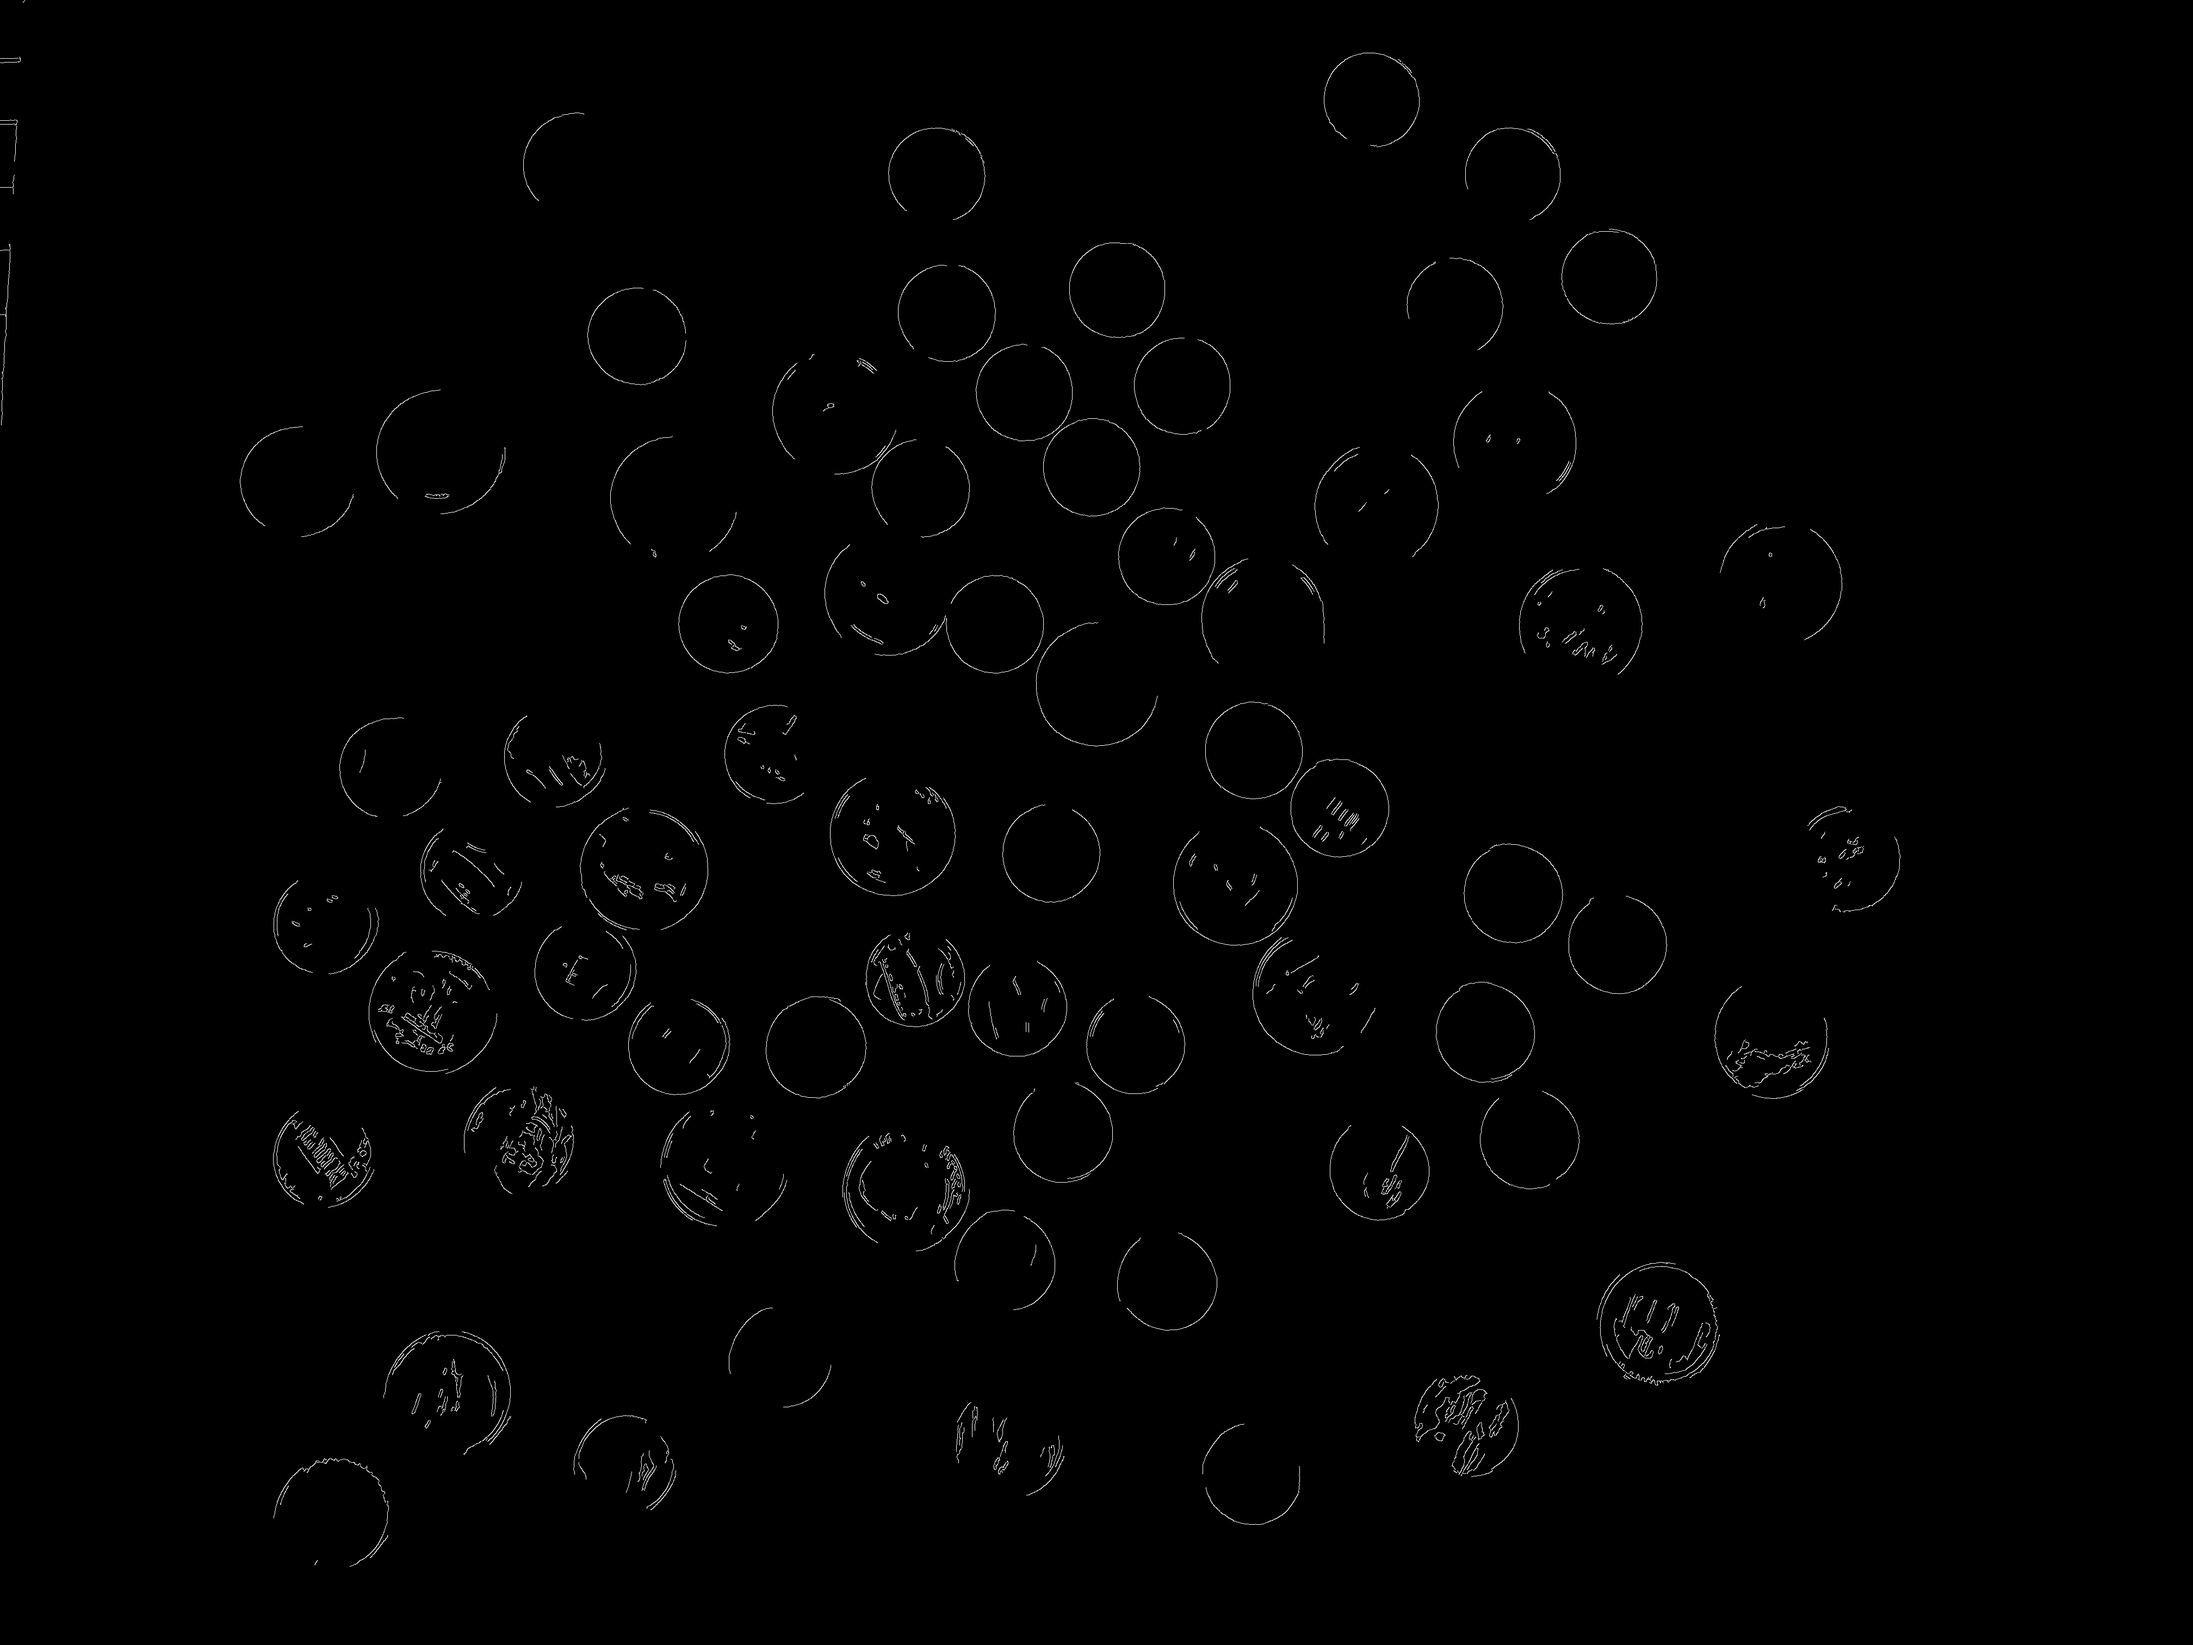
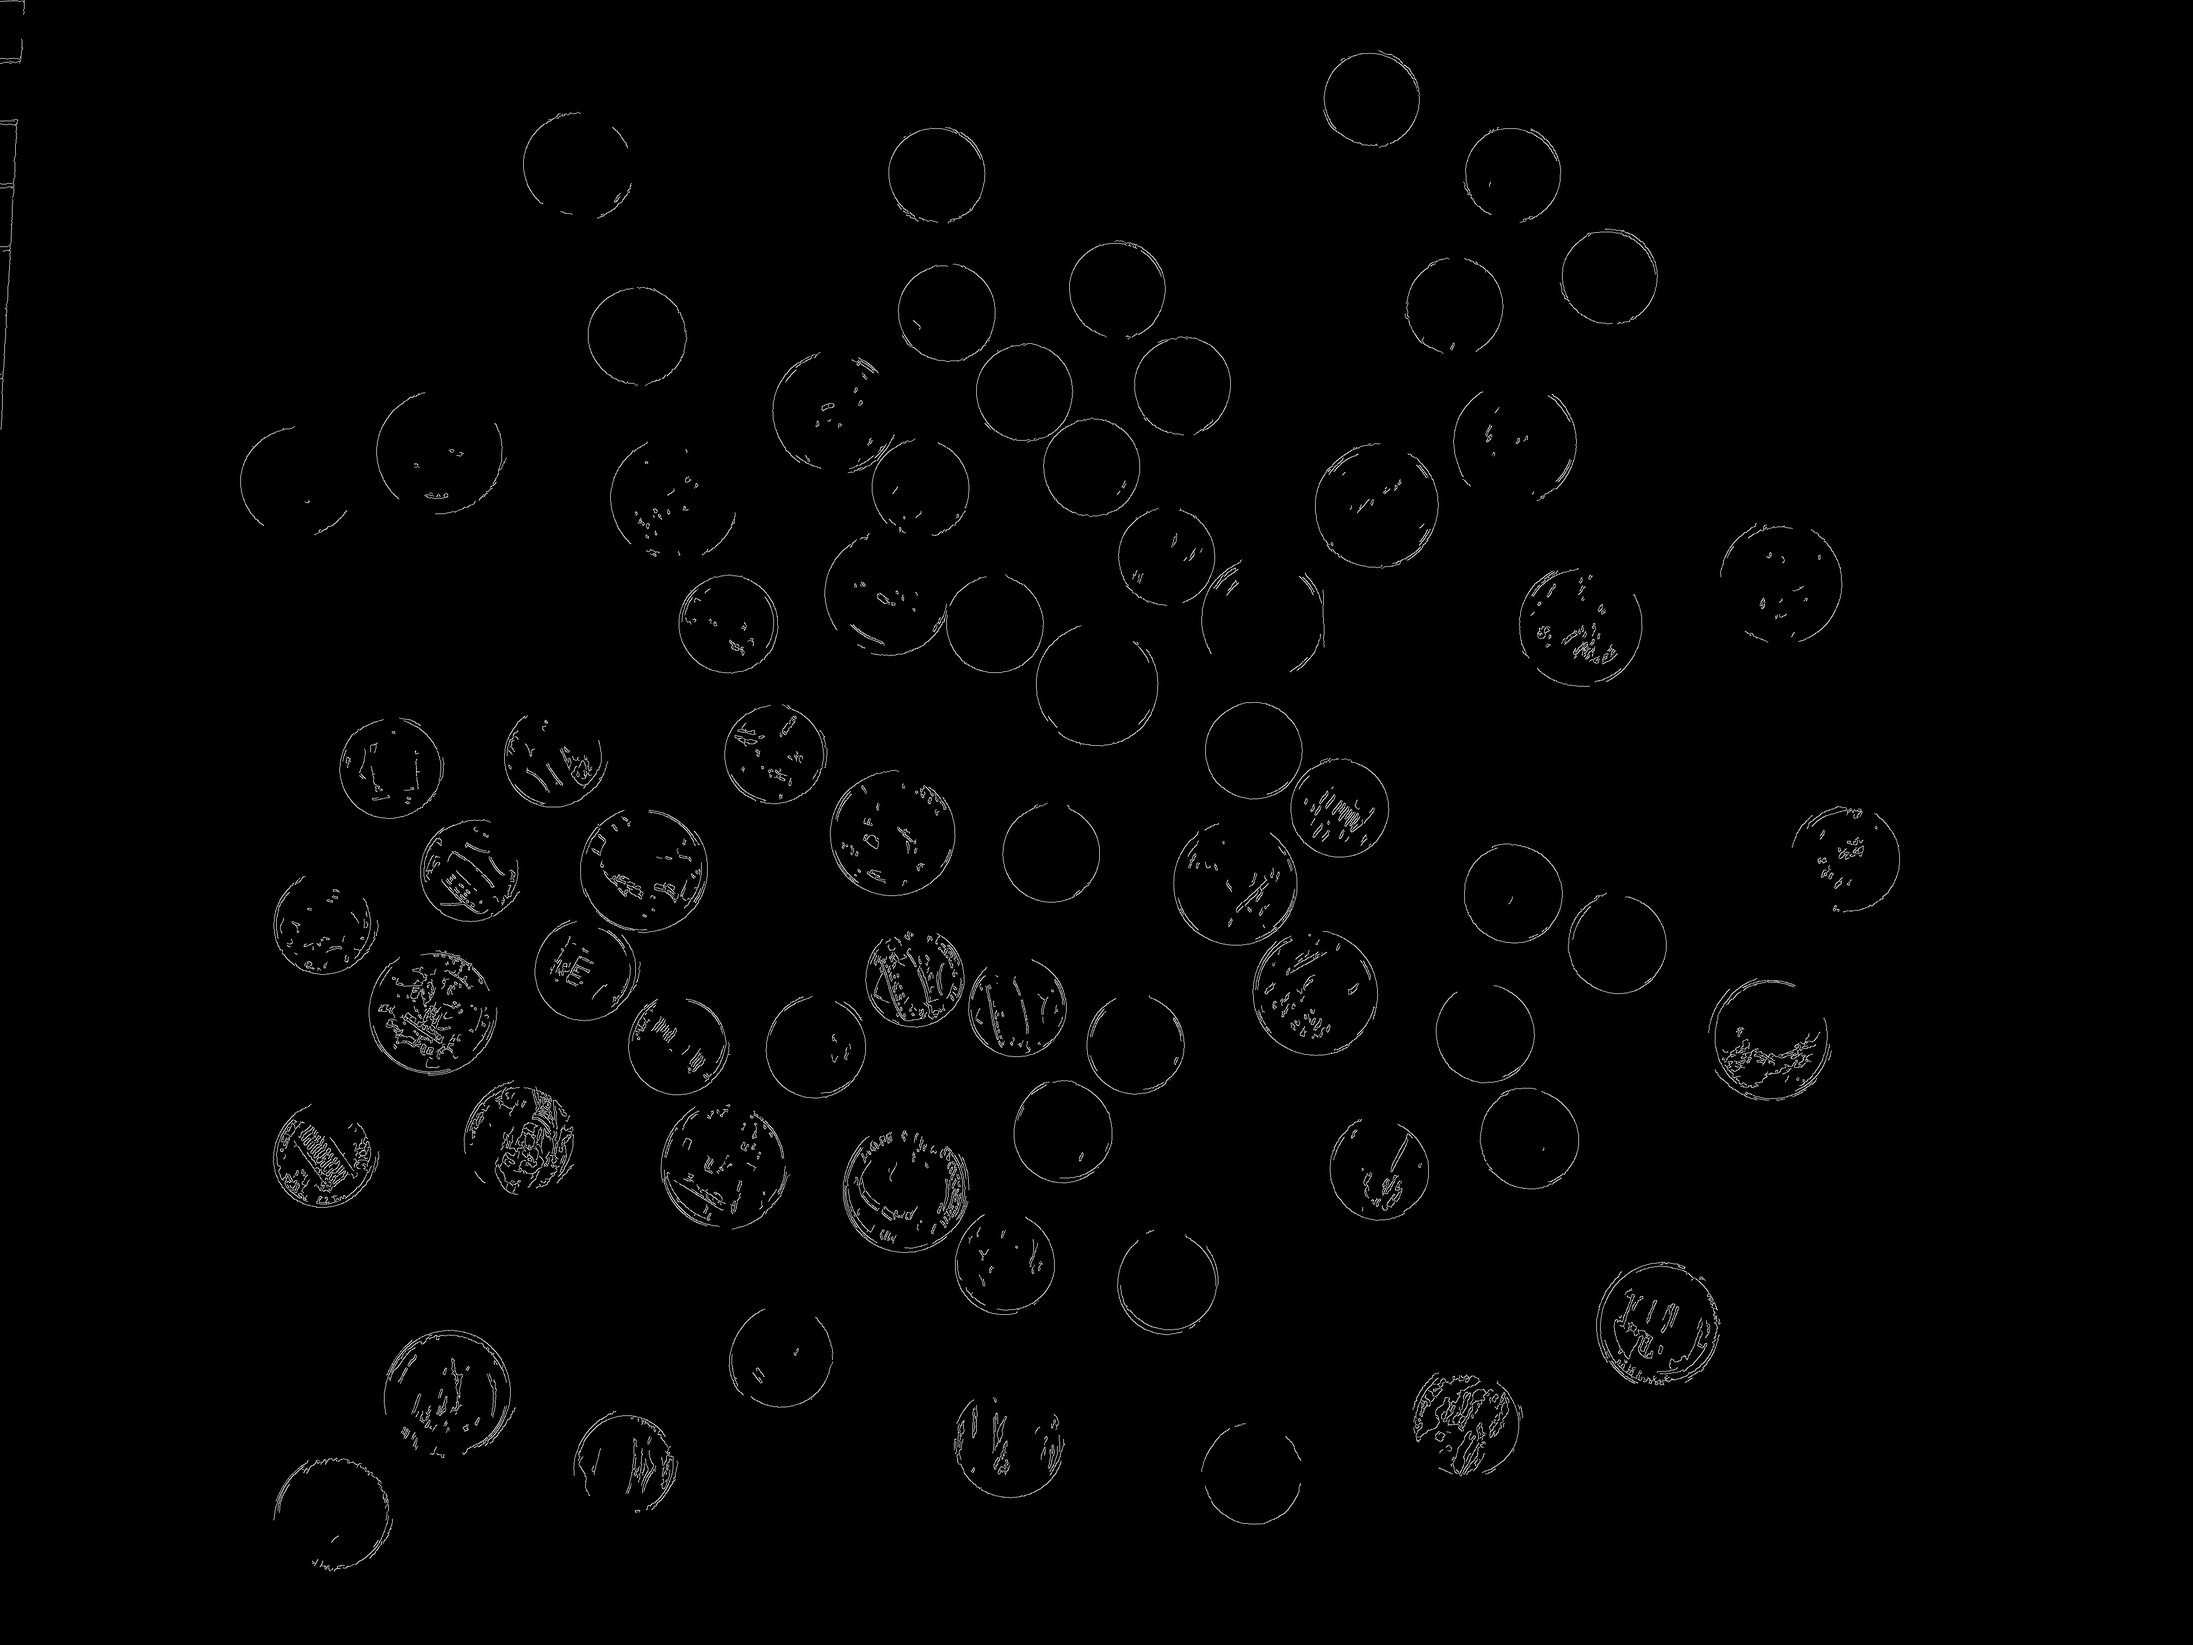
improve circle detection, penny detection

Changed region(s): [[0.4062, 0.5906, 0.4375, 0.6217], [0.1875, 0.5906, 0.2188, 0.6217]]

diff --git a/OpenCV/l071.cpp b/OpenCV/l071.cpp
@@ -48,12 +48,12 @@ namespace coins {
 	};
 
 	const int COIN_COLORS[6][3] = {
-		{ 255, 0, 0 },   // penny: red
-		{ 255, 0, 255 }, // nickel: purple
-		{ 0, 0, 255 },   // dime: blue
-		{ 0, 255, 0 },   // quarter: green
-		{ 0, 0, 0 },     // half dollar: unknown
-		{ 255, 255, 0 }  // silver dollar: yellow
+		{ 255,   0,   0 }, // penny: red
+		{ 255,   0, 255 }, // nickel: purple
+		{   0,   0, 255 }, // dime: blue
+		{   0, 255,   0 }, // quarter: green
+		{   0,   0,   0 }, // half dollar: unknown
+		{ 255, 255,   0 }  // silver dollar: yellow
 	};
 
 	const int COIN_VALUES[6] = {
@@ -110,7 +110,7 @@ namespace coins {
 
 			std::vector<cv::Point> circlePoints;
 
-			cv::ellipse2Poly(center, cv::Size(radius, radius), 0, 0, 360, 1, circlePoints);
+			cv::ellipse2Poly(center, cv::Size(radius / 2, radius / 2), 0, 0, 360, 1, circlePoints);
 
 			int redPixelCount = 0;
 			int totalPixelCount = circlePoints.size();
@@ -121,7 +121,7 @@ namespace coins {
 				int green = color[1];
 				int red = color[2];
 				double averageColor = (blue + green + red) / 3.0;
-				if (red > (averageColor * 1.2)) {
+				if (red > (averageColor * 1.3)) {
 					redPixelCount++;
 				}
 			}
@@ -180,7 +180,7 @@ int main(int argc, char** argv) {
 	cv::Mat gray;
 	cv::cvtColor(image, gray, cv::COLOR_BGR2GRAY);
 
-	const int GAUSSIAN_KERNEL_SIZE = 5;
+	const int GAUSSIAN_KERNEL_SIZE = 3;
 	
 	// cv: Blur (gray) with a kernel of size (GAUSSIAN_KERNEL_SIZE, GAUSSIAN_KERNEL_SIZE) [and std dev of (3, 3)] [using border (:default)]
 	cv::GaussianBlur(
@@ -198,8 +198,8 @@ int main(int argc, char** argv) {
 
 	const int MAX_POSSIBLE_EDGE_GRADIENT = 1016;
 
-	const int EDGE_DETECTION_THRESHOLD = MAX_POSSIBLE_EDGE_GRADIENT * 0.77 / GAUSSIAN_KERNEL_SIZE;
-	const int ACCUMULATOR_THRESHOLD = 40;
+	const int EDGE_DETECTION_THRESHOLD = MAX_POSSIBLE_EDGE_GRADIENT * 0.5 / GAUSSIAN_KERNEL_SIZE;
+	const int ACCUMULATOR_THRESHOLD = 50;
 
 	const double ACCUMULATOR_BLOCKINESS = 1.5;
 	
